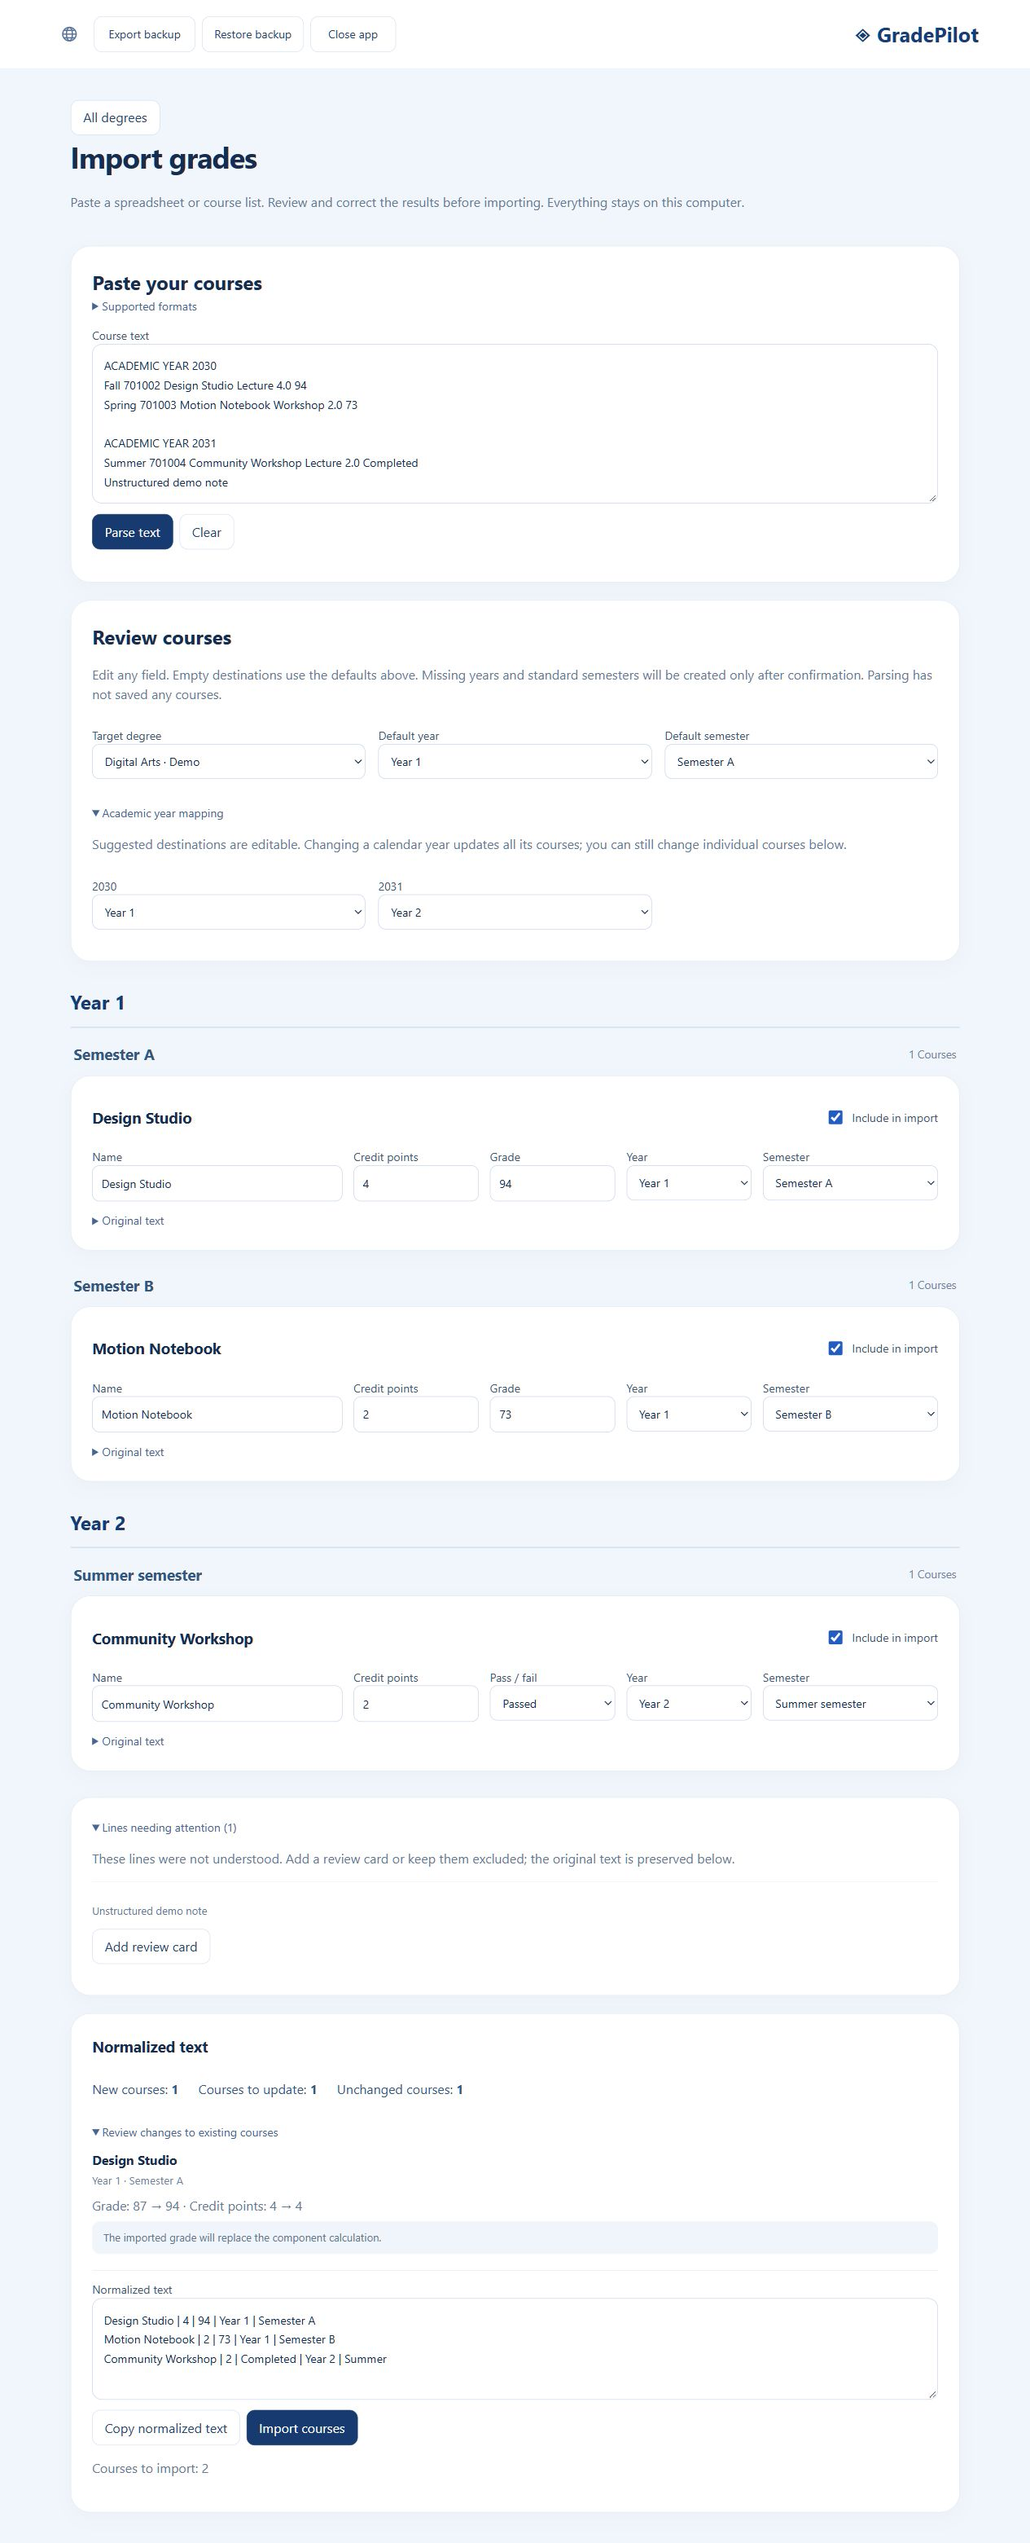
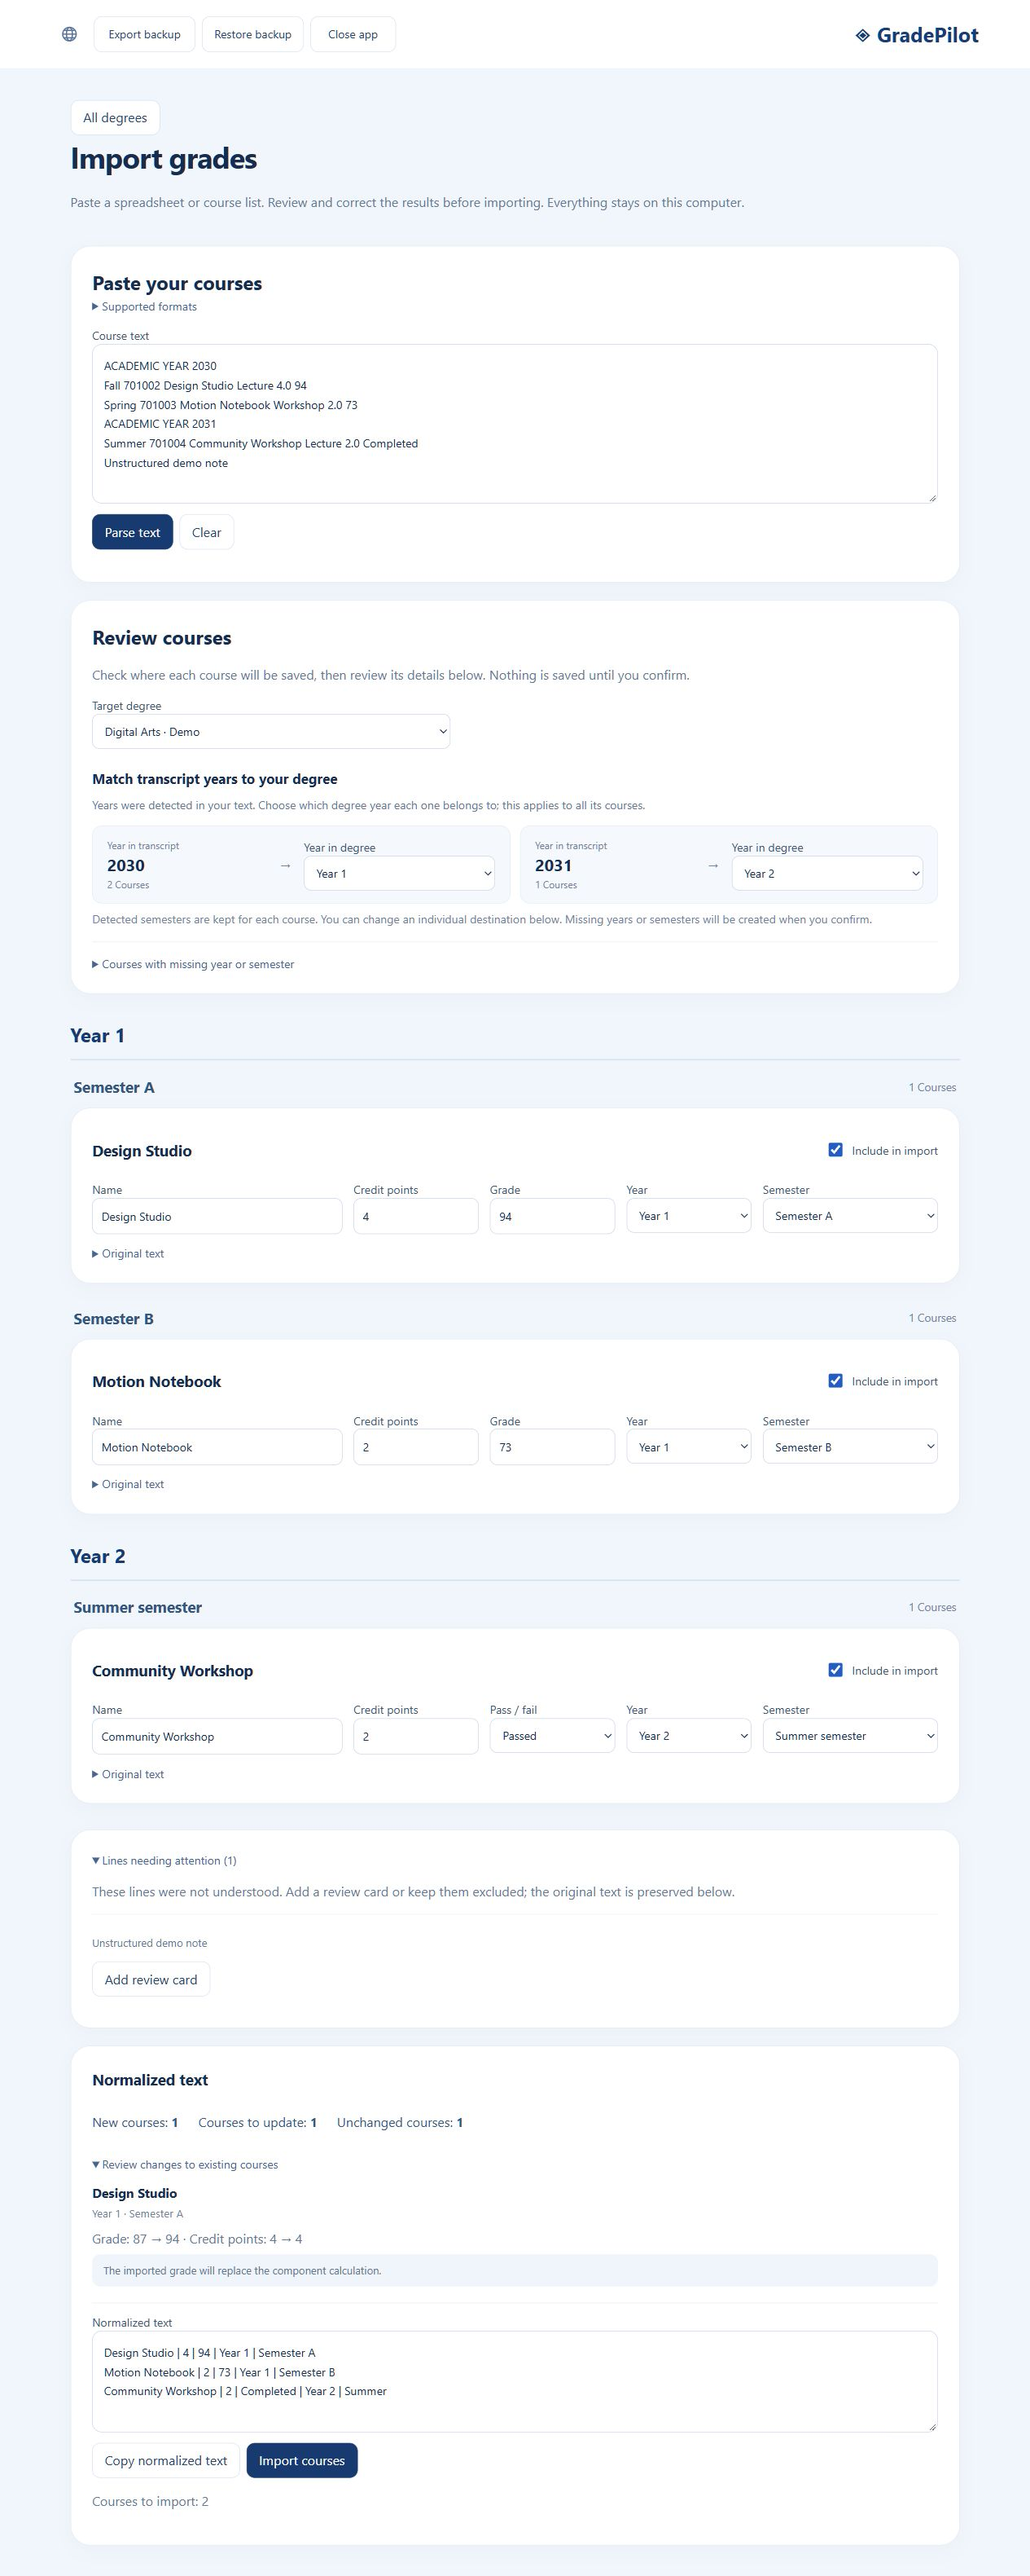
Separate import destination fallbacks from detected semesters

diff --git a/src/DegreeGradeCalculator/wwwroot/text-import.js b/src/DegreeGradeCalculator/wwwroot/text-import.js
@@ -14,12 +14,18 @@ Object.assign(words.en, {
   clearText: "Clear",
   reviewTitle: "Review courses",
   reviewHelp:
-    "Edit any field. Empty destinations use the defaults above. Missing years and standard semesters will be created only after confirmation. Parsing has not saved any courses.",
+    "Check where each course will be saved, then review its details below. Nothing is saved until you confirm.",
   targetDegree: "Target degree",
-  defaultYear: "Default year",
-  calendarMapping: "Academic year mapping",
+  defaultYear: "Year for missing destinations",
+  calendarMapping: "Match transcript years to your degree",
+  detectedYearsHelp: "Years were detected in your text. Choose which degree year each one belongs to; this applies to all its courses.",
+  transcriptYear: "Year in transcript", degreeYear: "Year in degree", individualYears: "Set per course",
+  detectedSemesterHelp: "Detected semesters are kept for each course. You can change an individual destination below. Missing years or semesters will be created when you confirm.",
+  fallbackTitle: "Courses with missing year or semester",
+  fallbackHelp: "These choices fill in missing information only. Detected years and semesters stay as shown below.",
+  fallbackUnused: "Every included course already has a year and semester. These choices are currently unused.",
   calendarMappingHelp: "Suggested destinations are editable. Changing a calendar year updates all its courses; you can still change individual courses below.",
-  defaultSemester: "Default semester",
+  defaultSemester: "Semester for missing destinations",
   useDefault: "Use default",
   includeRow: "Include in import",
   sourceLine: "Original text",
@@ -95,12 +101,18 @@ Object.assign(words.he, {
   clearText: "ניקוי",
   reviewTitle: "בדיקת הקורסים",
   reviewHelp:
-    "ניתן לערוך כל שדה. יעד ריק משתמש בברירת המחדל שלמעלה. שנים וסמסטרים רגילים חסרים ייווצרו רק לאחר אישור. הפענוח עדיין לא שמר קורסים.",
+    "בדקו לאן ייובא כל קורס, ואז עברו על הפרטים בהמשך. הקורסים יישמרו רק לאחר אישור.",
   targetDegree: "תואר יעד",
-  defaultYear: "שנת ברירת מחדל",
-  calendarMapping: "מיפוי שנות לימודים",
+  defaultYear: "שנה למידע חסר",
+  calendarMapping: "התאמת שנות הגיליון לשנים בתואר",
+  detectedYearsHelp: "זוהו שנות לימודים בטקסט. בחרו לאיזו שנה בתואר שייכת כל שנת לימודים; הבחירה תחול על כל הקורסים שלה.",
+  transcriptYear: "שנה בגיליון", degreeYear: "שנה בתואר", individualYears: "לפי קורס",
+  detectedSemesterHelp: "הסמסטרים שזוהו נשמרים לכל קורס. ניתן לשנות יעד של קורס בהמשך. שנים או סמסטרים חסרים ייווצרו בעת האישור.",
+  fallbackTitle: "קורסים ללא שנה או סמסטר",
+  fallbackHelp: "הבחירות האלה משלימות רק מידע חסר. שנים וסמסטרים שזוהו נשארים כפי שמוצג בהמשך.",
+  fallbackUnused: "לכל הקורסים שנכללו כבר יש שנה וסמסטר. הבחירות האלה אינן בשימוש כרגע.",
   calendarMappingHelp: "היעדים המוצעים ניתנים לשינוי. שינוי שנת לימודים מעדכן את כל הקורסים שלה; ניתן לשנות גם קורס בודד בהמשך.",
-  defaultSemester: "סמסטר ברירת מחדל",
+  defaultSemester: "סמסטר למידע חסר",
   useDefault: "ברירת מחדל",
   includeRow: "לכלול בייבוא",
   sourceLine: "הטקסט המקורי",
@@ -201,7 +213,7 @@ function semesterOptions(year, value, allowDefault) {
 function renderTextImport() {
   const draft = importDraft;
   $("#app").innerHTML =
-    `<div class="heading"><div>${button("leaveTextImport", t("back"))}<h1>${t("textImport")}</h1><p>${t("pasteHelp")}</p></div></div><section class="card"><div class="paste-heading"><h2>${t("pasteTitle")}</h2></div><details class="format-guide"><summary>${t("supportedFormats")}</summary><div><p>${t("formatsTables")}</p><pre dir="ltr">Creative Coding | 3 | 81</pre><p>${t("formatsLists")}</p><pre dir="ltr">Creative Coding 3 credits 81</pre><p>${t("formatsTranscripts")}</p><pre dir="auto">שנת לימודים 2030&#10;א 410101 יצירה דיגיטלית שיעור 3.0 3.0 81</pre><pre dir="ltr">ACADEMIC YEAR 2030&#10;Fall 410101 Creative Coding 3.0 81</pre><p>${t("formatsYears")}</p></div></details>${label(t("pasteLabel"), `<textarea id="pasteText" maxlength="50000" rows="7" dir="auto">${esc(draft.text)}</textarea>`)}<div class="actions">${button("parseText", t("parseText"), 'class="primary"')}${button("clearText", t("clearText"))}</div><p id="parseError" role="alert"></p></section>${draft.result ? `<section class="card"><h2>${t("reviewTitle")}</h2><p>${t("reviewHelp")}</p><div class="import-defaults">${label(t("targetDegree"), `<select id="importDegree">${data.degrees.map((d) => `<option value="${d.id}" ${d.id === draft.degreeId ? "selected" : ""}>${esc(d.name)}</option>`).join("")}</select>`)}${label(t("defaultYear"), `<select id="defaultYear">${yearOptions(draft.defaultYear, false)}</select>`)}${label(t("defaultSemester"), `<select id="defaultSemester">${semesterOptions(draft.defaultYear, draft.defaultSemester, false)}</select>`)}</div>${calendarMappingPanel()}${[...new Set(draft.result.warnings.map(w => w.code).filter(code => !["calendar-years-mapped", "unparsed-line"].includes(code)))].map(code => `<p class="import-note">${esc(t(code))}</p>`).join("")}${draft.result.mappingRecommended && draft.result.columnCount > 0 ? `<details class="mapping"><summary>${t("advancedMapping")}</summary><p>${t("mappingHelp")}</p><div class="import-defaults">${draft.result.columnMapping.map((m, i) => label(t("column") + " " + (i + 1), `<select data-map="${i}"><option value="">${t("ignoreColumn")}</option>${["name", "credits", "grade", "year", "semester"].map((field) => `<option value="${field}" ${m === field ? "selected" : ""}>${t(field === "credits" ? "creditPoints" : field)}</option>`).join("")}</select>`)).join("")}</div>${button("applyMapping", t("applyMapping"))}</details>` : ""}</section><form id="reviewForm"><div id="reviewRows">${groupedReviewCards()}</div></form>${draft.result.unparsedLines.length ? `<section class="card"><details class="unparsed-section"><summary>${t("unparsedTitle")} (${draft.result.unparsedLines.length})</summary><p>${t("unparsedHelp")}</p>${draft.result.unparsedLines.map((l, i) => `<div class="unparsed-line"><pre>${esc(l.text)}</pre>${button("recoverLine", t("addReviewRow"), `data-line="${i}"`)}</div>`).join("")}</details></section>` : ""}<section class="card"><h3>${t("normalizedTitle")}</h3><p id="previewError" role="status"></p><div id="duplicateWarnings"></div>${label(t("normalizedTitle"), `<textarea id="normalizedText" readonly rows="4" dir="auto"></textarea>`)}<div class="actions">${button("copyNormalized", t("copyNormalized"))}${button("reviewImport", t("importCourses"), 'class="primary"')}</div><p id="importCount" aria-live="polite"></p></section>` : ""}`;
+    `<div class="heading"><div>${button("leaveTextImport", t("back"))}<h1>${t("textImport")}</h1><p>${t("pasteHelp")}</p></div></div><section class="card"><div class="paste-heading"><h2>${t("pasteTitle")}</h2></div><details class="format-guide"><summary>${t("supportedFormats")}</summary><div><p>${t("formatsTables")}</p><pre dir="ltr">Creative Coding | 3 | 81</pre><p>${t("formatsLists")}</p><pre dir="ltr">Creative Coding 3 credits 81</pre><p>${t("formatsTranscripts")}</p><pre dir="auto">שנת לימודים 2030&#10;א 410101 יצירה דיגיטלית שיעור 3.0 3.0 81</pre><pre dir="ltr">ACADEMIC YEAR 2030&#10;Fall 410101 Creative Coding 3.0 81</pre><p>${t("formatsYears")}</p></div></details>${label(t("pasteLabel"), `<textarea id="pasteText" maxlength="50000" rows="7" dir="auto">${esc(draft.text)}</textarea>`)}<div class="actions">${button("parseText", t("parseText"), 'class="primary"')}${button("clearText", t("clearText"))}</div><p id="parseError" role="alert"></p></section>${draft.result ? `<section class="card"><h2>${t("reviewTitle")}</h2><p>${t("reviewHelp")}</p><div class="import-target">${label(t("targetDegree"), `<select id="importDegree">${data.degrees.map((d) => `<option value="${d.id}" ${d.id === draft.degreeId ? "selected" : ""}>${esc(d.name)}</option>`).join("")}</select>`)}</div>${calendarMappingPanel()}${fallbackDestinationPanel()}${[...new Set(draft.result.warnings.map(w => w.code).filter(code => !["calendar-years-mapped", "unparsed-line"].includes(code)))].map(code => `<p class="import-note">${esc(t(code))}</p>`).join("")}${draft.result.mappingRecommended && draft.result.columnCount > 0 ? `<details class="mapping"><summary>${t("advancedMapping")}</summary><p>${t("mappingHelp")}</p><div class="import-defaults">${draft.result.columnMapping.map((m, i) => label(t("column") + " " + (i + 1), `<select data-map="${i}"><option value="">${t("ignoreColumn")}</option>${["name", "credits", "grade", "year", "semester"].map((field) => `<option value="${field}" ${m === field ? "selected" : ""}>${t(field === "credits" ? "creditPoints" : field)}</option>`).join("")}</select>`)).join("")}</div>${button("applyMapping", t("applyMapping"))}</details>` : ""}</section><form id="reviewForm"><div id="reviewRows">${groupedReviewCards()}</div></form>${draft.result.unparsedLines.length ? `<section class="card"><details class="unparsed-section"><summary>${t("unparsedTitle")} (${draft.result.unparsedLines.length})</summary><p>${t("unparsedHelp")}</p>${draft.result.unparsedLines.map((l, i) => `<div class="unparsed-line"><pre>${esc(l.text)}</pre>${button("recoverLine", t("addReviewRow"), `data-line="${i}"`)}</div>`).join("")}</details></section>` : ""}<section class="card"><h3>${t("normalizedTitle")}</h3><p id="previewError" role="status"></p><div id="duplicateWarnings"></div>${label(t("normalizedTitle"), `<textarea id="normalizedText" readonly rows="4" dir="auto"></textarea>`)}<div class="actions">${button("copyNormalized", t("copyNormalized"))}${button("reviewImport", t("importCourses"), 'class="primary"')}</div><p id="importCount" aria-live="polite"></p></section>` : ""}`;
   if (draft.result) {
     validateReview();
     refreshImportPreview();
@@ -210,11 +222,15 @@ function renderTextImport() {
 function calendarMappingPanel() {
   const years = [...new Set(importDraft.rows.map(r => r.rawValues?.calendarYear).filter(Boolean))].sort();
   if (!years.length) return "";
-  return `<details class="mapping" open><summary>${t("calendarMapping")}</summary><p>${t("calendarMappingHelp")}</p><div class="import-defaults">${years.map(calendar => {
+  return `<section class="calendar-destinations"><h3>${t("calendarMapping")}</h3><p>${t("detectedYearsHelp")}</p><div class="calendar-grid">${years.map(calendar => {
     const rows = importDraft.rows.filter(r => r.rawValues?.calendarYear === calendar);
     const value = rows.every(r => r.year === rows[0].year) ? rows[0].year : null;
-    return label(calendar, `<select data-calendar-year="${calendar}">${value === null ? `<option value="" selected>—</option>` : ""}${yearOptions(value, false)}</select>`);
-  }).join("")}</div></details>`;
+    return `<div class="calendar-destination"><div><span class="destination-label">${t("transcriptYear")}</span><strong><bdi>${esc(calendar)}</bdi></strong><small>${rows.length} ${t("courses")}</small></div><span class="mapping-arrow" aria-hidden="true">${data.language === "he" ? "←" : "→"}</span>${label(t("degreeYear"), `<select data-calendar-year="${calendar}" aria-label="${esc(calendar + ' · ' + t('degreeYear'))}">${value === null ? `<option value="" selected>${t("individualYears")}</option>` : ""}${yearOptions(value, false)}</select>`)}</div>`;
+  }).join("")}</div><p class="destination-note">${t("detectedSemesterHelp")}</p></section>`;
+}
+function fallbackDestinationPanel() {
+  const missing = importDraft.rows.filter(row => row.included && (!row.year || !row.semester)).length;
+  return `<details class="fallback-destinations" ${missing ? "open" : ""}><summary>${t("fallbackTitle")}${missing ? ` · ${missing} ${t("courses")}` : ""}</summary><p>${t(missing ? "fallbackHelp" : "fallbackUnused")}</p><div class="fallback-fields">${label(t("defaultYear"), `<select id="defaultYear">${yearOptions(importDraft.defaultYear, false)}</select>`)}${label(t("defaultSemester"), `<select id="defaultSemester">${semesterOptions(importDraft.defaultYear, importDraft.defaultSemester, false)}</select>`)}</div></details>`;
 }
 function groupedReviewCards() {
   const years = new Map();

diff --git a/src/DegreeGradeCalculator/wwwroot/text-import.css b/src/DegreeGradeCalculator/wwwroot/text-import.css
@@ -117,3 +117,18 @@ details summary {
 .import-update { padding: 12px 0; border-bottom: 1px solid #dce7f5; }
 .import-update small { display: block; color: #71839b; margin-top: 4px; }
 .import-update p { margin: 8px 0; }
+.import-target { max-width: 440px; }
+.calendar-destinations { margin-top: 24px; }
+.calendar-destinations h3 { font-size: 17px; }
+.calendar-destinations > p, .fallback-destinations > p { font-size: 14px; margin: 8px 0 16px; }
+.calendar-grid { display: grid; grid-template-columns: repeat(2, minmax(0, 1fr)); gap: 12px; }
+.calendar-destination { display: grid; grid-template-columns: 1fr auto 1.2fr; align-items: center; gap: 16px; padding: 14px 18px; background: #f5f8fd; border: 1px solid #e0e8f3; border-radius: 12px; }
+.calendar-destination strong, .calendar-destination small, .destination-label { display: block; }
+.calendar-destination strong { font-size: 20px; }
+.calendar-destination small, .destination-label { font-size: 12px; color: #71839b; }
+.calendar-destination label { margin: 0; }
+.mapping-arrow { color: #71839b; }
+.destination-note { color: #71839b; }
+.fallback-destinations { border-top: 1px solid #e0e8f3; padding-top: 16px; margin-top: 18px; }
+.fallback-fields { display: grid; grid-template-columns: repeat(2, minmax(0, 1fr)); gap: 16px; max-width: 600px; }
+@media (max-width: 650px) { .calendar-grid, .fallback-fields { grid-template-columns: 1fr; } }

diff --git a/README.md b/README.md
@@ -38,7 +38,7 @@ The database is `%LOCALAPPDATA%\DegreeGradeCalculator\grades.db`. Replacing the 
 
 ## Import grades from text
 
-Choose **Import grades** on the dashboard or degree page. Paste copied text and select **Parse text**, then review course names, credits, grades, years, and semesters in editable cards grouped by destination year and semester. Changing a destination moves the card into its matching group. Choose a target degree and default year/semester; explicit row destinations take priority. Exclude unwanted rows, fix highlighted fields, and confirm **Import courses** to save. Parsing and preview never write to the database.
+Choose **Import grades** on the dashboard or degree page. Paste copied text and select **Parse text**, then review course names, credits, grades, years, and semesters in editable cards grouped by destination year and semester. Changing a destination moves the card into its matching group. Choose a target degree. Each course keeps its own detected year and semester. Fallback year/semester controls live under **Courses with missing year or semester** and only fill missing destinations; they never override detected ones. Exclude unwanted rows, fix highlighted fields, and confirm **Import courses** to save. Parsing and preview never write to the database.
 
 Supported formats include pipes (`Creative Coding | 3 | 81`), CSV including quoted names, spreadsheet tabs, semicolons, spaced columns, `Creative Coding 3 credits 81`, and `Creative Coding - 3 - 81`. English/Hebrew headers and year/semester names are recognized. Decimal credits and blank grades are supported. Decimal commas work in non-comma-separated cells or quoted CSV cells.
 

diff --git a/VERIFICATION.md b/VERIFICATION.md
@@ -29,3 +29,5 @@ Empty summary verified in Hebrew using a fictional degree: compact dashboard car
 Release refresh verification: the complete executable and assets were republished together. HTML, JavaScript, and CSS return Cache-Control: no-store; updated HTML uses fresh asset URLs. Live HTTP integration coverage checks these headers. The real saved database hash was unchanged during replacement. All old captures were removed and replaced with eleven fresh screenshots from the exact release executable.
 
 Screenshot gallery replaced again after framing review: nine English-only captures, including English degree names and transcript text. Every image was visually inspected. Long degree, simulation, and import screens use full-page captures, with complete cards and actions; dialogs show all fields and buttons. No personal grades or mixed-language examples appear in the gallery.
+
+Import destination controls verified: target degree stands alone; fallback year and semester are collapsed when all destinations are detected and expanded for missing data. A multi-semester transcript keeps A, B, and Summer when fallback year changes. Calendar-year cards distinguish transcript year from degree year. Current English import screenshots recaptured.
